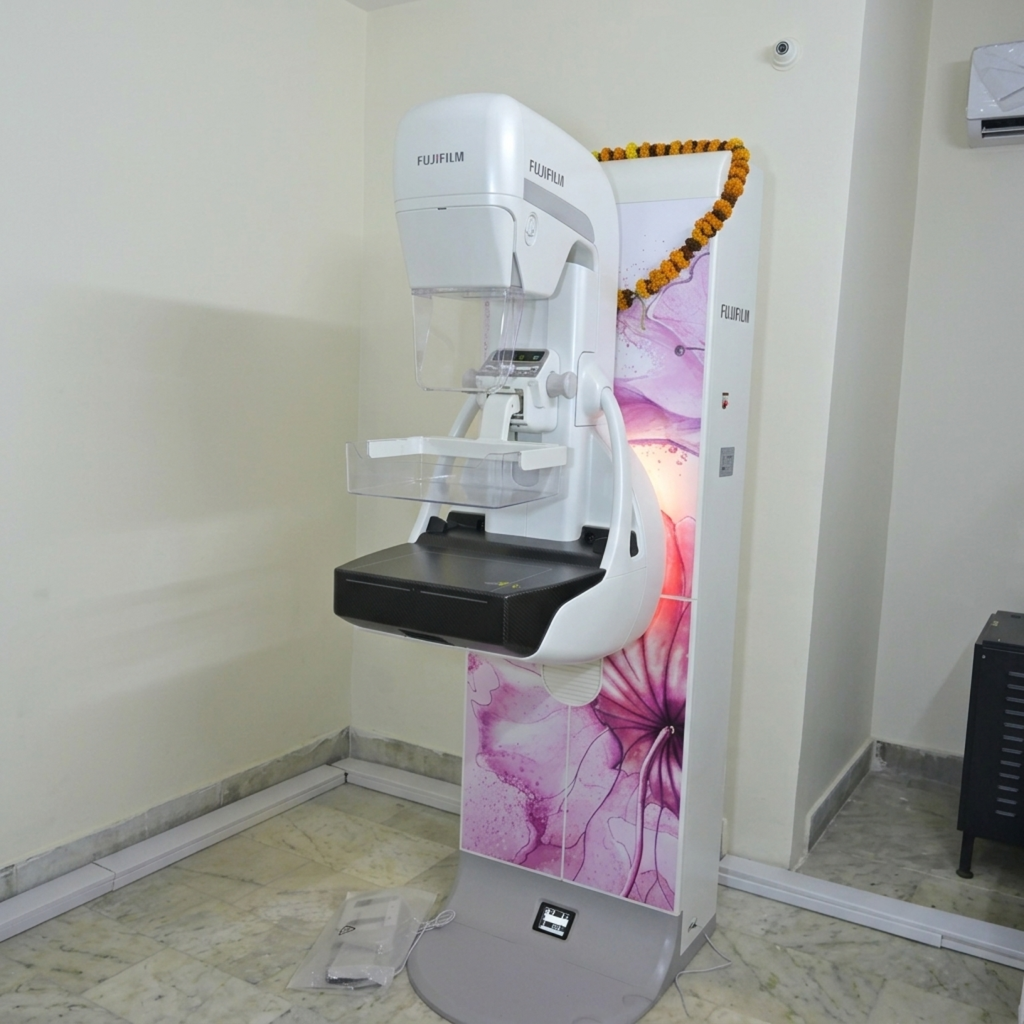
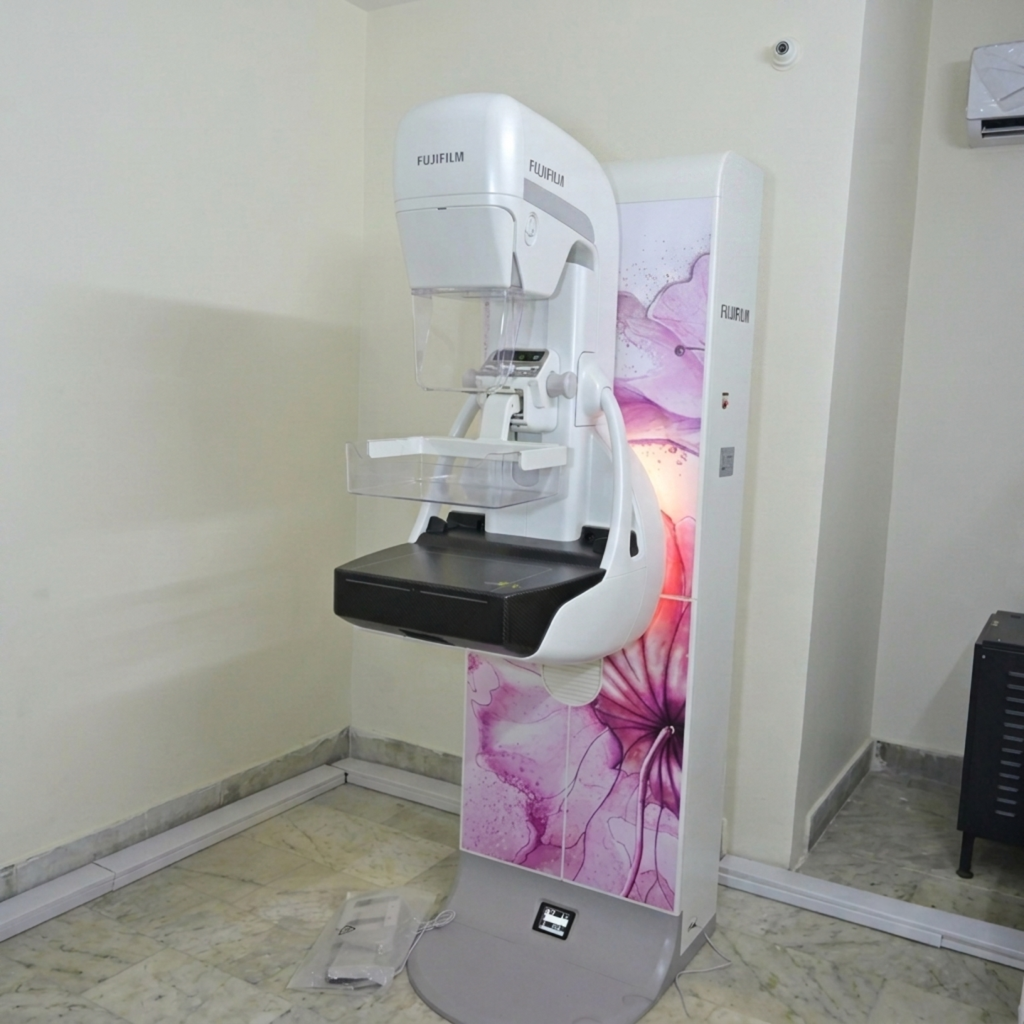
changes

Changed region(s): [[0.5625, 0.125, 0.75, 0.3125]]

diff --git a/src/components/ServiceSection.jsx b/src/components/ServiceSection.jsx
@@ -66,7 +66,7 @@ const serviceCategories = [
     ]
   },
   {
-    title: "Laser Therapy",
+    title: "General and Laparoscopic Surgery",
     icon: <FaMeteor />,
     items: [
       // "Advanced Laser Solutions",
@@ -94,7 +94,18 @@ const serviceCategories = [
       // "Developmental Tracking",
       // "Premature Infant Support"
     ]
+  },
+  {
+    title: "Physiotherapy",
+    icon: <FaBaby />,
+    items: [
+      // "Newborn Care & Screenings",
+      // "Immunization Programs",
+      // "Developmental Tracking",
+      // "Premature Infant Support"
+    ]
   }
+
 ];
 
 const ServiceSection = () => {
@@ -125,7 +136,7 @@ const ServiceSection = () => {
 
   return (
     <section ref={sectionRef} className="py-24 bg-[#eefaff] text-gray-800 overflow-hidden">
-      <div className="max-w-7xl mx-auto px-6">
+      <div className="max-w-[90vw] mx-auto px-6">
         
         {/* Header Block Section */}
         <div className="text-center mb-20">
@@ -139,45 +150,72 @@ const ServiceSection = () => {
         </div>
 
         {/* Dynamic Service Grid Responsive Block */}
-        <div className="grid grid-cols-1 sm:grid-cols-2 lg:grid-cols-4 gap-8 items-stretch">
-          {serviceCategories.map((category, index) => (
-            <div
-              key={index}
-              className="service-card flex flex-col justify-between bg-emerald-950/5 border border-emerald-950/10 rounded-[2.5rem] p-8 transition-all duration-300 ease-out hover:bg-white hover:scale-[1.04] hover:shadow-[0_20px_50px_rgba(26,36,79,0.08)] group cursor-pointer"
-            >
-              <div>
-                {/* Image-Style Top Vector Graphic / Icon Wrapper */}
-                <div className="flex justify-center mb-6 text-3xl text-emerald-800/70 group-hover:text-[#0095d5] transition-colors duration-300">
-                  <div className="p-4 bg-emerald-950/5 group-hover:bg-[#eefaff] rounded-2xl transition-colors duration-300">
-                    {category.icon}
+        <div className="space-y-8">
+          <div className="grid grid-cols-1 sm:grid-cols-2 lg:grid-cols-5 gap-8 items-stretch">
+            {serviceCategories.slice(0, 5).map((category, index) => (
+              <div
+                key={index}
+                className="service-card flex flex-col justify-between bg-emerald-950/5 border border-emerald-950/10 rounded-[2.5rem] p-8 transition-all duration-300 ease-out hover:bg-white hover:scale-[1.04] hover:shadow-[0_20px_50px_rgba(26,36,79,0.08)] group cursor-pointer"
+              >
+                <div>
+                  {/* Image-Style Top Vector Graphic / Icon Wrapper */}
+                  <div className="flex justify-center mb-6 text-3xl text-emerald-800/70 group-hover:text-[#0095d5] transition-colors duration-300">
+                    <div className="p-4 bg-emerald-950/5 group-hover:bg-[#eefaff] rounded-2xl transition-colors duration-300">
+                      {category.icon}
+                    </div>
                   </div>
+
+                  {/* Service Category Title */}
+                  <h3 className="text-xl font-bold tracking-tight text-center text-[#1a244f] mb-6 transition-colors duration-300">
+                    {category.title}
+                  </h3>
+
+                  {/* Bullet Points List Block */}
+                  <ul className="space-y-3 border-t border-gray-300/40 pt-4">
+                    {category.items.map((item, i) => (
+                      <li key={i} className="flex items-start gap-2.5 text-sm text-gray-600 font-medium leading-tight">
+                        <span className="text-[#0095d5] text-xs mt-0.5 flex-shrink-0">✓</span>
+                        <span>{item}</span>
+                      </li>
+                    ))}
+                  </ul>
                 </div>
-
-                {/* Service Category Title */}
-                <h3 className="text-xl font-bold tracking-tight text-center text-[#1a244f] mb-6 transition-colors duration-300">
-                  {category.title}
-                </h3>
-
-                {/* Bullet Points List Block */}
-                <ul className="space-y-3 border-t border-gray-300/40 pt-4">
-                  {category.items.map((item, i) => (
-                    <li key={i} className="flex items-start gap-2.5 text-sm text-gray-600 font-medium leading-tight">
-                      <span className="text-[#0095d5] text-xs mt-0.5 flex-shrink-0">✓</span>
-                      <span>{item}</span>
-                    </li>
-                  ))}
-                </ul>
               </div>
+            ))}
+          </div>
 
-              {/* Bottom Decorative Quick Action Tag */}
-              {/* <div className="mt-8 text-center">
-                <span className="inline-block text-xs font-bold text-[#0095d5] bg-[#0095d5]/5 group-hover:bg-[#0095d5] group-hover:text-white px-4 py-1.5 rounded-full transition-all duration-300">
-                  View Department
-                </span>
-              </div> */}
+          <div className="grid grid-cols-1 sm:grid-cols-2 lg:grid-cols-4 gap-8 items-stretch lg:max-w-4xl lg:mx-auto">
+            {serviceCategories.slice(5).map((category, index) => (
+              <div
+                key={index + 5}
+                className="service-card flex flex-col justify-between bg-emerald-950/5 border border-emerald-950/10 rounded-[2.5rem] p-8 transition-all duration-300 ease-out hover:bg-white hover:scale-[1.04] hover:shadow-[0_20px_50px_rgba(26,36,79,0.08)] group cursor-pointer"
+              >
+                <div>
+                  {/* Image-Style Top Vector Graphic / Icon Wrapper */}
+                  <div className="flex justify-center mb-6 text-3xl text-emerald-800/70 group-hover:text-[#0095d5] transition-colors duration-300">
+                    <div className="p-4 bg-emerald-950/5 group-hover:bg-[#eefaff] rounded-2xl transition-colors duration-300">
+                      {category.icon}
+                    </div>
+                  </div>
 
-            </div>
-          ))}
+                  {/* Service Category Title */}
+                  <h3 className="text-xl font-bold tracking-tight text-center text-[#1a244f] mb-6 transition-colors duration-300">
+                    {category.title}
+                  </h3>
+
+                  {/* Bullet Points List Block */}
+                  <ul className="space-y-3 border-t border-gray-300/40 pt-4">
+                    {category.items.map((item, i) => (
+                      <li key={i} className="flex items-start gap-2.5 text-sm text-gray-600 font-medium leading-tight">
+                        <span className="text-[#0095d5] text-xs mt-0.5 flex-shrink-0">✓</span>
+                        <span>{item}</span>
+                      </li>
+                    ))}
+                  </ul>
+                </div>
+              </div>
+            ))}
+          </div>
         </div>
 
       </div>

diff --git a/src/pages/Home.jsx b/src/pages/Home.jsx
@@ -1,6 +1,6 @@
 // src/components/Home.jsx
 import { useState } from "react";
-import heroimg from "../assets/hero.png";
+import heroimg from "../assets/hero2.png";
 import aboutImg from "../assets/about.png";
 
 import pmjay from "../assets/pm-jay.png";
@@ -15,6 +15,7 @@ import Doctors from "./Doctors";
 import ServiceSection from "../components/ServiceSection";
 import Reviewcard from "../components/ReviewCard";
 import Seo from "../components/Seo";
+
 
 import AboutUs from "../components/AboutUs";
 
@@ -114,54 +115,54 @@ const Home = () => {
         description="High-quality healthcare services for over 50,000+ patients with compassion and excellence."
       />
       {/* ==================== HERO SECTION ==================== */}
-      <div
-        className="relative min-h-screen flex items-center bg-cover bg-center bg-no-repeat"
-        style={{ backgroundImage: `url(${heroimg})` }}
-      >
-        {/* Overlay */}
-        <div className="absolute inset-0 bg-black/20 md:bg-black/20" />
+      <section className="relative min-h-[calc(100vh-80px)] top-14 overflow-hidden bg-gradient-to-br from-[#0d3b6b] via-[#1f5aa4] to-[#0d3b6b]">
+        <div className="absolute inset-0 bg-[radial-gradient(circle_at_top_left,_rgba(255,255,255,0.16),_transparent_36%)]" />
+        <div className="absolute inset-0 opacity-20 bg-[radial-gradient(#ffffff_1px,transparent_1px)] [background-size:30px_30px]" />
 
-        <div className="relative z-10 max-w-[90vw] mx-auto px-4 sm:px-6 lg:px-8 py-20 md:py-0 w-full">
-          <div className="grid md:grid-cols-2 gap-12 lg:gap-20 items-center min-h-[90vh] md:min-h-screen">
-            {/* Left Content */}
-            <div className="text-white space-y-6 md:space-y-8 pt-12 md:pt-0">
-              <div className="inline-block border border-white/40 sm:max-w-2xl  text-white px-4 py-2.5 rounded-full font-semibold text-[12px] shadow-lg">
-                40+ Years of Trusted Healthcare Excellence.
+        <div className="absolute left-0 top-0 bottom-0 hidden w-1/2 lg:block">
+          <img
+            src={heroimg}
+            alt="MGM Hospital"
+            className="h-full w-full object-cover opacity-90"
+          />
+          <div className="absolute inset-0 bg-gradient-to-r from-[#092847]/90 via-[#092847]/40 to-transparent" />
+        </div>
+
+        <div className="relative z-10 mx-auto flex min-h-[calc(100vh-80px)] w-full max-w-[90vw] items-center px-6 py-20 lg:px-8">
+          <div className="grid w-full items-center gap-12 lg:grid-cols-2">
+            <div className="mt-10 max-w-2xl space-y-8 text-[#fff] lg:pl-4 lg:mt-16">
+              <div className="inline-flex rounded-full border border-[#fff]/15 px-4 py-2 text-sm font-semibold uppercase tracking-[0.25em] text-[#fff] shadow-sm">
+                40+ Years of Trusted Healthcare Excellence
               </div>
 
-              <div className="max-w-xl border border-white/80 rounded-[1.5rem] p-4 sm:p-6 md:p-7">
-                <h1 className="text-3xl sm:text-4xl md:text-5xl lg:text-6xl font-bold leading-[1.1] text-white whitespace-normal">
+              <div className="rounded-[2rem] border border-[#fff]/40 p-6 shadow-[0_20px_70px_rgba(13,59,107,0.09)] md:p-8">
+                <h1 className="text-4xl font-bold leading-[1.05] text-[#fff] sm:text-5xl lg:text-6xl">
                   MGM Hospital &amp;
-                  <span className="block mt-2">Research Centre</span>
+                  <span className="mt-2 block">Research Centre</span>
                 </h1>
+                <p className="mt-5 max-w-xl text-lg text-zinc-100">
+                  Providing expert care to over 50,000+ patients with compassion and excellence.
+                </p>
               </div>
-
-              <p className="text-lg md:text-xl text-white/90 max-w-lg">
-                Providing expert care to over 50,000+ patients with compassion
-                and excellence.
-              </p>
             </div>
 
-            {/* Right Side - Appointment Form */}
-            <div className="md:justify-self-end w-full max-w-md mx-auto md:mx-0">
-              <div className="bg-[#c2185b] rounded-3xl p-6 sm:p-8 shadow-2xl">
-                <div className="text-white text-3xl font-bold mb-2">
-                  Book Appointment
+            <div className="mx-auto w-full max-w-md lg:ml-auto">
+              <div className="rounded-[2rem] border border-[#0d3b6b]/10 bg-white/95 p-7 shadow-[0_20px_70px_rgba(13,59,107,0.12)]">
+                <div className="mb-8 text-center">
+                  <div className="text-3xl font-bold text-[#c2185b]">Book Appointment</div>
+                  <p className="mt-3 text-gray-600">
+                    Providing expert care to over 50,000+ patients with compassion and excellence.
+                  </p>
                 </div>
-                <p className="text-purple-100 mb-8 text-sm sm:text-base">
-                  Over 40 Years of Trusted Healthcare Excellence. <br />
-                  Providing expert care to over 50,000+ patients with compassion
-                  and excellence.
-                </p>
 
-                <form onSubmit={handleSubmit} className="space-y-5">
+                <form onSubmit={handleSubmit} className="space-y-6">
                   <input
                     type="text"
                     name="name"
                     value={formData.name}
                     onChange={handleChange}
                     placeholder="Name"
-                    className="w-full px-5 py-4 rounded-2xl bg-white focus:outline-none focus:ring-2 focus:ring-purple-300 text-gray-900"
+                    className="w-full rounded-2xl border border-gray-200 px-6 py-4 text-gray-900 outline-none focus:ring-2 focus:ring-[#c2185b]"
                     required
                   />
 
@@ -171,7 +172,7 @@ const Home = () => {
                     value={formData.mobile}
                     onChange={handleChange}
                     placeholder="Mobile Number"
-                    className="w-full px-5 py-4 rounded-2xl bg-white focus:outline-none focus:ring-2 focus:ring-purple-300 text-gray-900"
+                    className="w-full rounded-2xl border border-gray-200 px-6 py-4 text-gray-900 outline-none focus:ring-2 focus:ring-[#c2185b]"
                     required
                   />
 
@@ -179,47 +180,38 @@ const Home = () => {
                     name="specialization"
                     value={formData.specialization}
                     onChange={handleChange}
-                    className="w-full px-5 py-4 rounded-2xl bg-white focus:outline-none focus:ring-2 focus:ring-purple-300 text-gray-900"
+                    className="w-full rounded-2xl border border-gray-200 px-6 py-4 text-gray-900 outline-none focus:ring-2 focus:ring-[#c2185b]"
                     required
                   >
-                    <option value="obstetrics-gynecology">
-                      Specialization
-                    </option>
-                    <option value="obstetrics-gynecology">
-                      Obstetrics and Gynecology
-                    </option>
-                    <option value="pediatric-neonatology">
-                      Pediatric and Neonatology
-                    </option>
+                    <option value="">Specialization</option>
+                    <option value="obstetrics-gynecology">Obstetrics and Gynecology</option>
+                    <option value="pediatric-neonatology">Pediatric and Neonatology</option>
                     <option value="general-medicine">General Medicine</option>
                   </select>
 
                   <button
                     type="submit"
                     disabled={isSubmitting}
-                    className="w-full bg-[#fff] transition-colors text-gray-800 font-semibold py-4 rounded-2xl text-lg mt-4 disabled:opacity-70"
+                    className="mt-4 w-full rounded-2xl bg-[#c2185b] py-4 text-lg font-semibold text-white transition-all hover:bg-[#a0154a] disabled:opacity-70"
                   >
                     {isSubmitting ? "Sending..." : "SUBMIT"}
                   </button>
 
-                  {submitStatus.message ? (
-                    <p
-                      className={`text-sm mt-2 ${submitStatus.type === "error" ? "text-red-100" : "text-green-100"}`}
-                    >
+                  {submitStatus.message && (
+                    <p className={`mt-3 text-center text-sm ${submitStatus.type === "error" ? "text-red-600" : "text-green-600"}`}>
                       {submitStatus.message}
                     </p>
-                  ) : null}
+                  )}
                 </form>
               </div>
             </div>
           </div>
         </div>
-
-        {/* Bottom fade */}
-        <div className="absolute bottom-0 left-0 right-0 h-40 bg-gradient-to-t from-black/70 to-transparent" />
-      </div>
+      </section>
 
       {/* insurance section */}
+
+
 
       <section className="py-20 bg-white">
         <div className="max-w-7xl mx-auto px-5">

diff --git a/src/pages/Doctors.jsx b/src/pages/Doctors.jsx
@@ -8,8 +8,14 @@ import doctor3 from "../assets/doctor-2.jpeg";
 import doctor4 from "../assets/doctor-3.jpeg";
 import doctor5 from "../assets/doctor-4.jpeg";
 import doctor6 from "../assets/doctor-5.jpeg";
-import doctor7 from "../assets/doctor-6.jpeg";
+import doctor7 from "../assets/doctor-6.png";
 import doctor8 from "../assets/doctor-7.jpeg";
+import doctor9 from "../assets/doctor-8.jpeg";
+import doctor10 from "../assets/doctor-9.png";
+import doctor11 from "../assets/doctor-10.jpeg";
+import doctor12 from "../assets/doctor-12.png";
+import doctor13 from "../assets/doctor-13.png";
+import doctor14 from "../assets/doctor-14.png";
 
 const doctors = [
   {
@@ -62,12 +68,57 @@ const doctors = [
     specialties: "MBBS, MS (OBS & GYNE)",
   },
   {
-    name: "Dr. Sweta Agrawal",
+    name: "DR. Manju Prasad",
     title: "Senior Consultant",
     experience: "12+ Years",
     image: doctor8,
     specialties: "MBBS, DGO, DNB (OBS & GYNE)",
   },
+  {
+    name: "DR. Sweta Agrawal",
+    title: "Senior Consultant",
+    experience: "12+ Years",
+    image: doctor10,
+    specialties: "MBBS, DGO, DNB(OBS.&GYNE), FELLOWSHIP IN LAP. SURGERY( OBS & GYNE).",
+  },
+    {
+    name: "DR. Sadhana",
+    title: "Junior Consultant",
+    experience: "4+ Years",
+    image: doctor11,
+    specialties: "MBBS, MS, DNB (OBS & GYNE)",
+  },
+    {
+    name: "DR. Jyoti Kumari",
+    title: "Junior Consultant",
+    experience: "4+ Years",
+    image: doctor9,
+    specialties: "MBBS, DNB (OBS & GYNE)",
+  },
+    {
+    name: "DR. Deepmala",
+    title: "Junior Consultant",
+    experience: "4+ Years",
+    image: doctor13,
+    specialties: "MBBS, DGO (OBS & GYNE)",
+  },
+    {
+    name: "Dr. Pragya Mishra Chaudhary",
+    title: "Senior Consultant",
+    experience: "12+ Years",
+    image: doctor12,
+    specialties: "MBBS, (M.R.C.O.G, PhD)",
+  },
+    {
+    name: "DR. Shivangi",
+    title: "Senior Resident",
+    experience: "12+ Years",
+    image: doctor14,
+    specialties: "MBBS, MS (OBS & GYNE)",
+  },
+
+
+  
 ];
 
 const Doctors = () => {